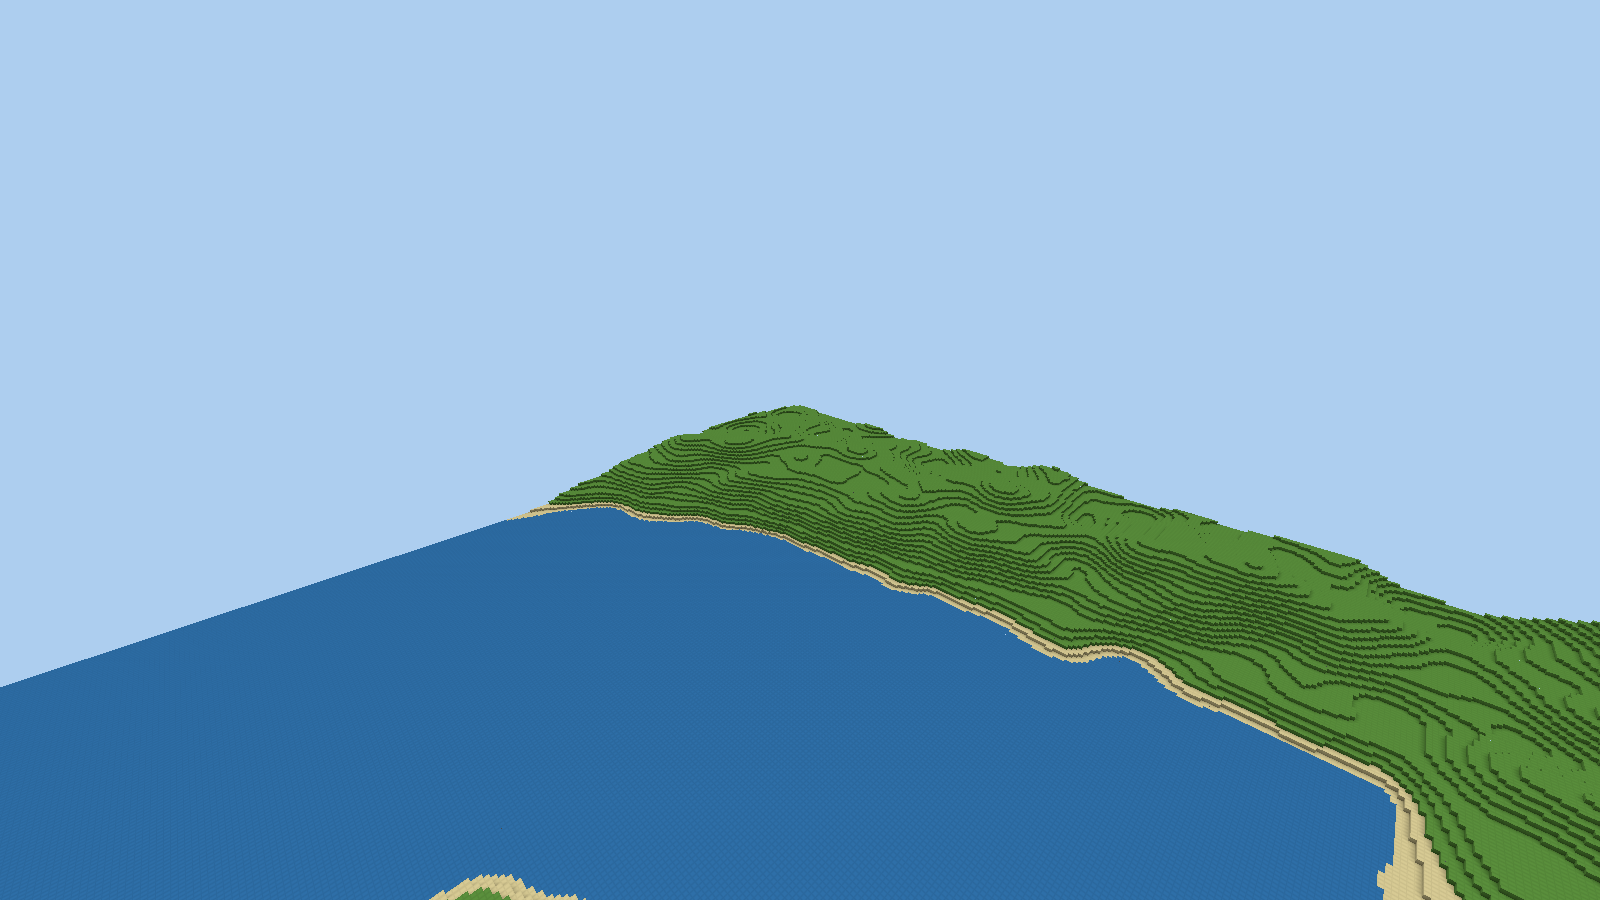
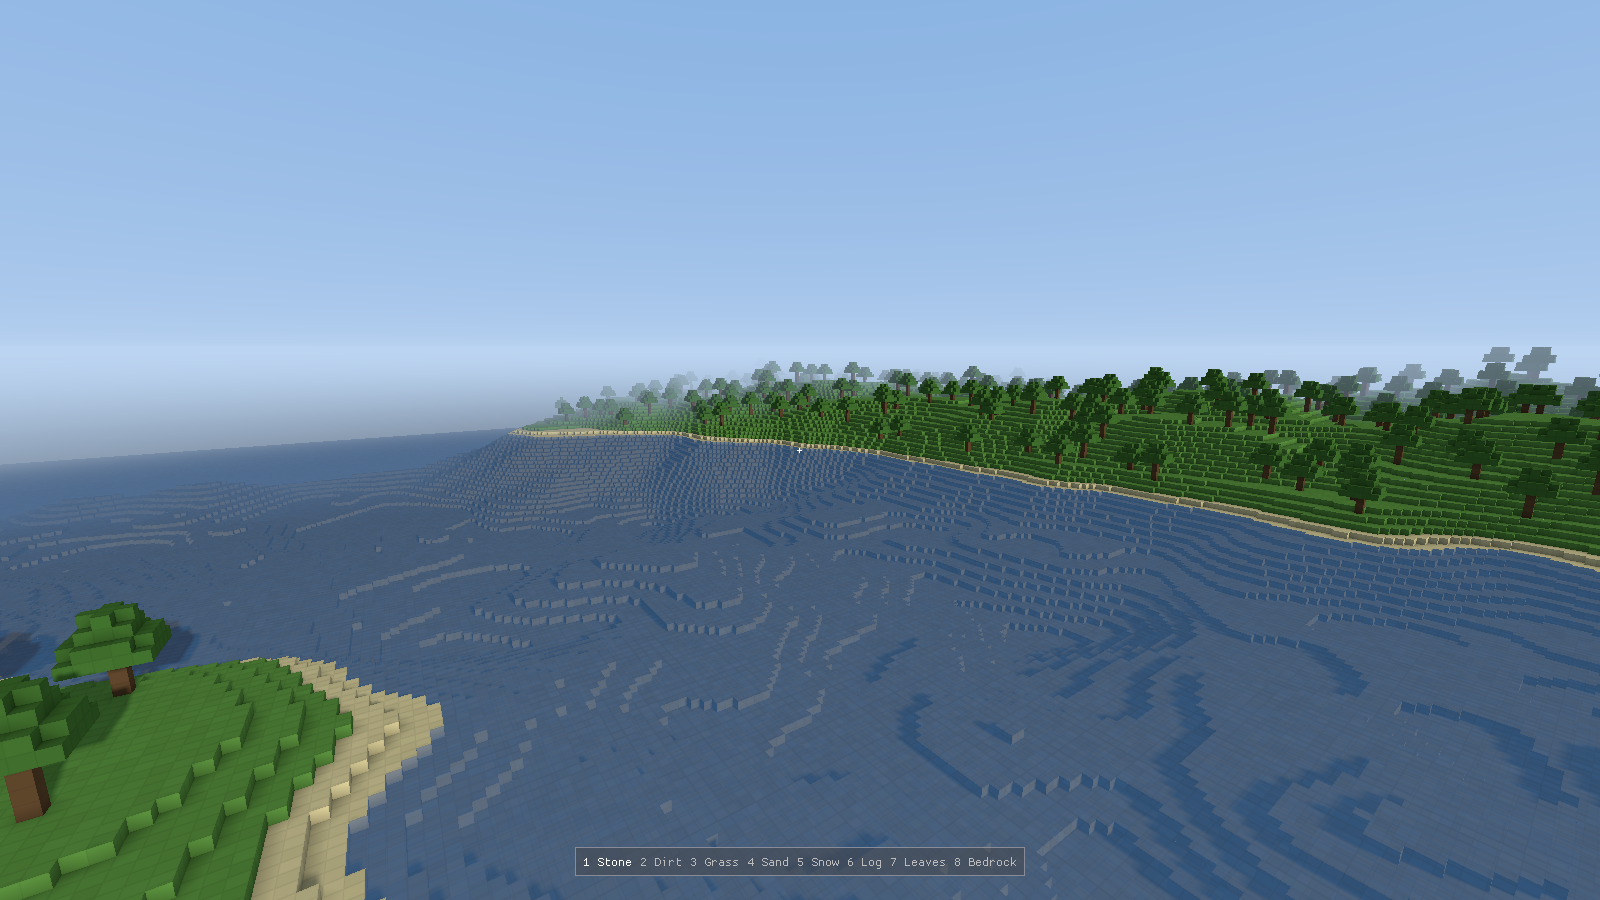
docs: show what the world looks like now and how a frame is drawn

diff --git a/src/BrutalShore.Runtime/DebugOverlay.cs b/src/BrutalShore.Runtime/DebugOverlay.cs
@@ -28,9 +28,10 @@ public sealed unsafe class DebugOverlay : IDisposable
 
 
     /// <summary>Starts Dear ImGui and attaches it to the window and the render pass.</summary>
-    public DebugOverlay(GameWindow window, GpuContext context, SwapchainTarget target)
+    public DebugOverlay(GameWindow window, GpuContext context, SwapchainTarget target, bool startVisible)
     {
         _window = window;
+        IsVisible = startVisible;
 
         ImGui.CreateContext();
 
@@ -57,7 +58,7 @@ public sealed unsafe class DebugOverlay : IDisposable
     }
 
     /// <summary>Whether the overlay is being drawn.</summary>
-    public bool IsVisible { get; private set; } = true;
+    public bool IsVisible { get; private set; }
 
     /// <summary>Opens the interface's frame and handles the key that hides the overlay.</summary>
     /// <remarks>

diff --git a/src/BrutalShore.Runtime/HostOptions.cs b/src/BrutalShore.Runtime/HostOptions.cs
@@ -32,4 +32,12 @@ public sealed record HostOptions
     /// the one before the change.
     /// </remarks>
     public string? ScreenshotPath { get; init; }
+
+    /// <summary>Whether the debug overlay starts visible.</summary>
+    /// <remarks>
+    /// F3 still toggles it either way. Starting hidden is for making a picture of the world
+    /// rather than of the numbers over it, which a fixed-frame run has no way to ask for
+    /// otherwise — it never gets to a keyboard.
+    /// </remarks>
+    public bool ShowOverlay { get; init; } = true;
 }

diff --git a/src/BrutalShore.Runtime/GameHost.cs b/src/BrutalShore.Runtime/GameHost.cs
@@ -43,7 +43,7 @@ public sealed class GameHost : IDisposable
         _target = new SwapchainTarget(_gpu, _window);
         _renderer = new GpuRenderer(_gpu, _target);
         _shaders = new ShaderLibrary(_gpu, Path.Combine(AppContext.BaseDirectory, "Shaders"));
-        _overlay = new DebugOverlay(_window, _gpu, _target);
+        _overlay = new DebugOverlay(_window, _gpu, _target, options.ShowOverlay);
 
         Context = new GameContext(_window, _gpu, _target, _renderer, _shaders, _clock);
     }

diff --git a/games/Shorebound/Options.cs b/games/Shorebound/Options.cs
@@ -76,6 +76,9 @@ public sealed record Options
                     options = options with { Viewpoint = ReadViewpoint(arguments, ref index) };
                     break;
 
+                case "--no-overlay":
+                    options = options with { Host = options.Host with { ShowOverlay = false } };
+                    break;
                 case "--validation":
                     options = options with { Host = options.Host with { EnableValidation = true } };
                     break;

diff --git a/README.md b/README.md
@@ -4,13 +4,16 @@ An engine, and a voxel game on it, in C# on
 [BRUTAL](https://github.com/ahwootech/BRUTAL) — the open-source framework behind
 Kitten Space Agency.
 
-![A coastline seen from above: ocean, a beach, rolling grassland](docs/coastline.png)
+![A wooded coastline under a low sun, the seabed showing through the water](docs/coastline.png)
 
 An unbounded world of 32³ chunks, generated from a seed rather than stored,
-streamed around the player, greedy-meshed with ambient occlusion, and drawn
-through a Vulkan renderer written here.
+streamed around the player on worker threads, greedy-meshed with ambient
+occlusion, and drawn through a Vulkan renderer written here: a sky with a sun
+and a moon crossing it, shadows cast from whichever is up, water you can see
+through and swim in, and forests that span chunk boundaries without anything
+being saved.
 
-![The same world at eye level, with the debug overlay open](docs/overlay.png)
+![The same coast with the debug overlay open, showing the frame time graph](docs/overlay.png)
 
 ## Running it
 
@@ -31,9 +34,9 @@ dotnet run --project games/Shorebound -c Release
 
 Click `Play`, then `WASD` to move, `space` to jump, `shift` to sprint, `F` to
 switch between walking and flying — `space` and `ctrl` go up and down while
-flying. Left click breaks a block, right click places one, `1` to `6` or `Q` and
-`E` pick which. `Escape` opens the menu, where the world can be saved; `F3`
-hides the overlay.
+flying, and `space` swims up in water. Left click breaks a block, right click
+places one, the number keys or `Q` and `E` pick which. `Escape` opens the menu,
+where the world can be saved; `F3` hides the overlay.
 
 A world is its seed plus the blocks you have changed, so a save holds nothing
 else: an untouched world is about a hundred bytes however far you have walked.
@@ -47,6 +50,7 @@ else: an untouched world is about a hundred bytes however far you have walked.
 | `--time <hour>`                    | The hour the world starts at. Default 8.         |
 | `--day-length <seconds>`           | Real seconds per in-game day; 0 stops the sun.   |
 | `--save <path>`                    | Where the world is kept. Default `shorebound.world`. |
+| `--no-overlay`                     | Start with the debug overlay hidden.             |
 | `--validation`                     | Turn on the Vulkan validation layers.            |
 | `--frames <n>`                     | Close after this many frames.                    |
 | `--camera <x> <y> <z> <yaw> <pitch>` | Start the camera here, angles in degrees.      |
@@ -118,21 +122,48 @@ arc, the shadow box, and Shorebound's own terrain, player and save file.
 
 ## How the world is drawn
 
-A chunk is 32³ block ids. Meshing it is three reductions, in order: faces
-between two solid blocks are never built; faces on a chunk boundary are culled
-against the neighbouring chunk, which is why a chunk is only meshed once its
-whole 3×3×3 neighbourhood is loaded; and the faces that survive are merged
-greedily into the largest rectangles that share a colour **and** an ambient
-occlusion pattern. A solid chunk goes from 196,608 triangles to 12.
+A chunk is 32³ block ids. Meshing it is three reductions, in order: a face is
+only built if what is in front of it does not hide it — air hides nothing, an
+opaque block hides everything, and water hides only more water, which is what
+makes a sea a surface rather than a lattice; faces on a chunk boundary are
+culled against the neighbouring chunk, which is why a chunk is only meshed once
+its whole 3×3×3 neighbourhood is loaded; and the faces that survive are merged
+greedily into the largest rectangles that share a colour, an opacity **and** an
+ambient occlusion pattern. A solid chunk goes from 196,608 triangles to 12.
 
 Each corner is eight bytes: position on a 33-point lattice, one of six face
-directions, two bits of ambient occlusion, and a colour. There is no texture
-coordinate, because the shader derives one from the position — which is also what
-makes a merged quad tile per block instead of stretching.
+directions, two bits of ambient occlusion, a colour and an opacity. There is no
+texture coordinate, because the shader derives one from the position — which is
+also what makes a merged quad tile per block instead of stretching. Nothing has
+a texture at all; what breaks up a field of grass is a few per cent of shade per
+block, hashed from where that block is in the world.
+
+A frame is three passes. The sun's shadow map first, off-screen, with the solid
+half of every chunk the light can see — snapped to a texel grid so the shadows
+do not crawl as the camera moves. Then the sky, a single triangle with the sun,
+the moon and the stars on it. Then the world: the solid half of each chunk with
+the depth buffer sorting it, and the see-through half blended over the top, far
+to near.
 
 Everything is drawn camera-relative. The camera's position is the origin of
 render space, and each chunk's offset from it is subtracted in f64 before being
 narrowed to f32, so there is no distance at which vertices start to shimmer.
+
+## Where the work happens
+
+Generating a chunk and meshing it are both pure functions of a coordinate and a
+seed, so both run on worker threads and neither is on the frame. What is left on
+the frame is the handover — applying the player's edits to a chunk that has just
+arrived, and copying a finished mesh into a GPU buffer — which the overlay's
+breakdown puts at a couple of milliseconds against a view of half a million
+triangles.
+
+Trees are the reason the generator's contract is worth reading. A trunk at one
+coordinate puts leaves in chunks the trunk is not in, and no chunk may ask
+another what it contains. So every chunk works out from the seed alone which
+trees could reach it, builds each of them in full, and keeps the part that falls
+inside itself. Both sides of a boundary agree because both did the same
+arithmetic.
 
 ## BRUTAL
 
